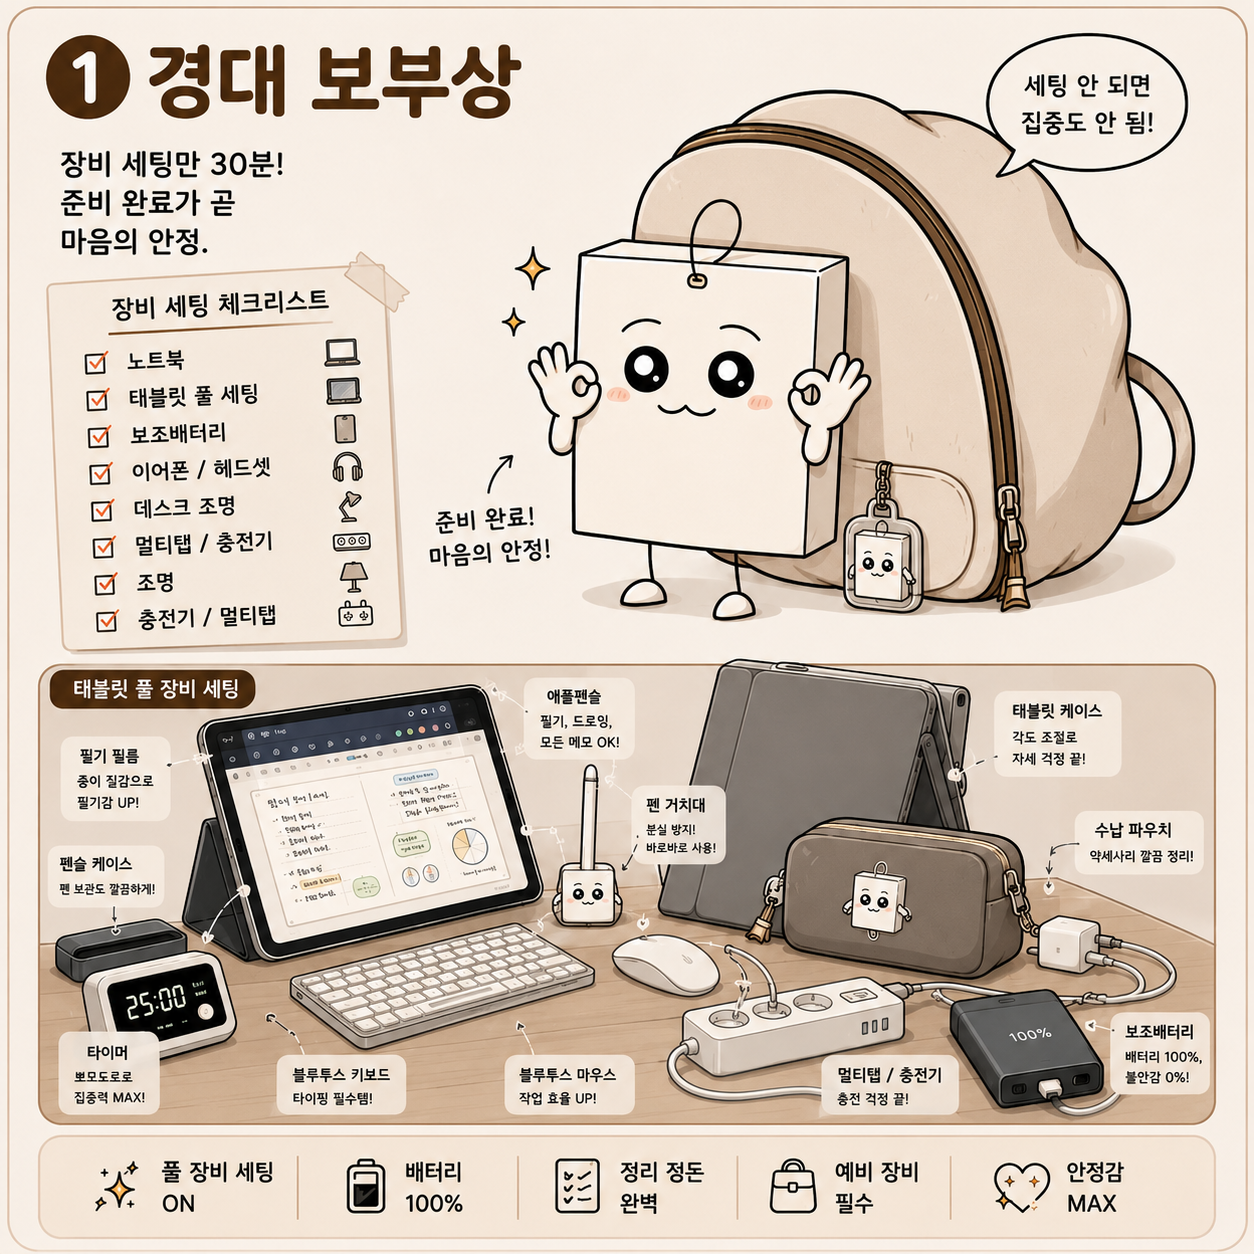
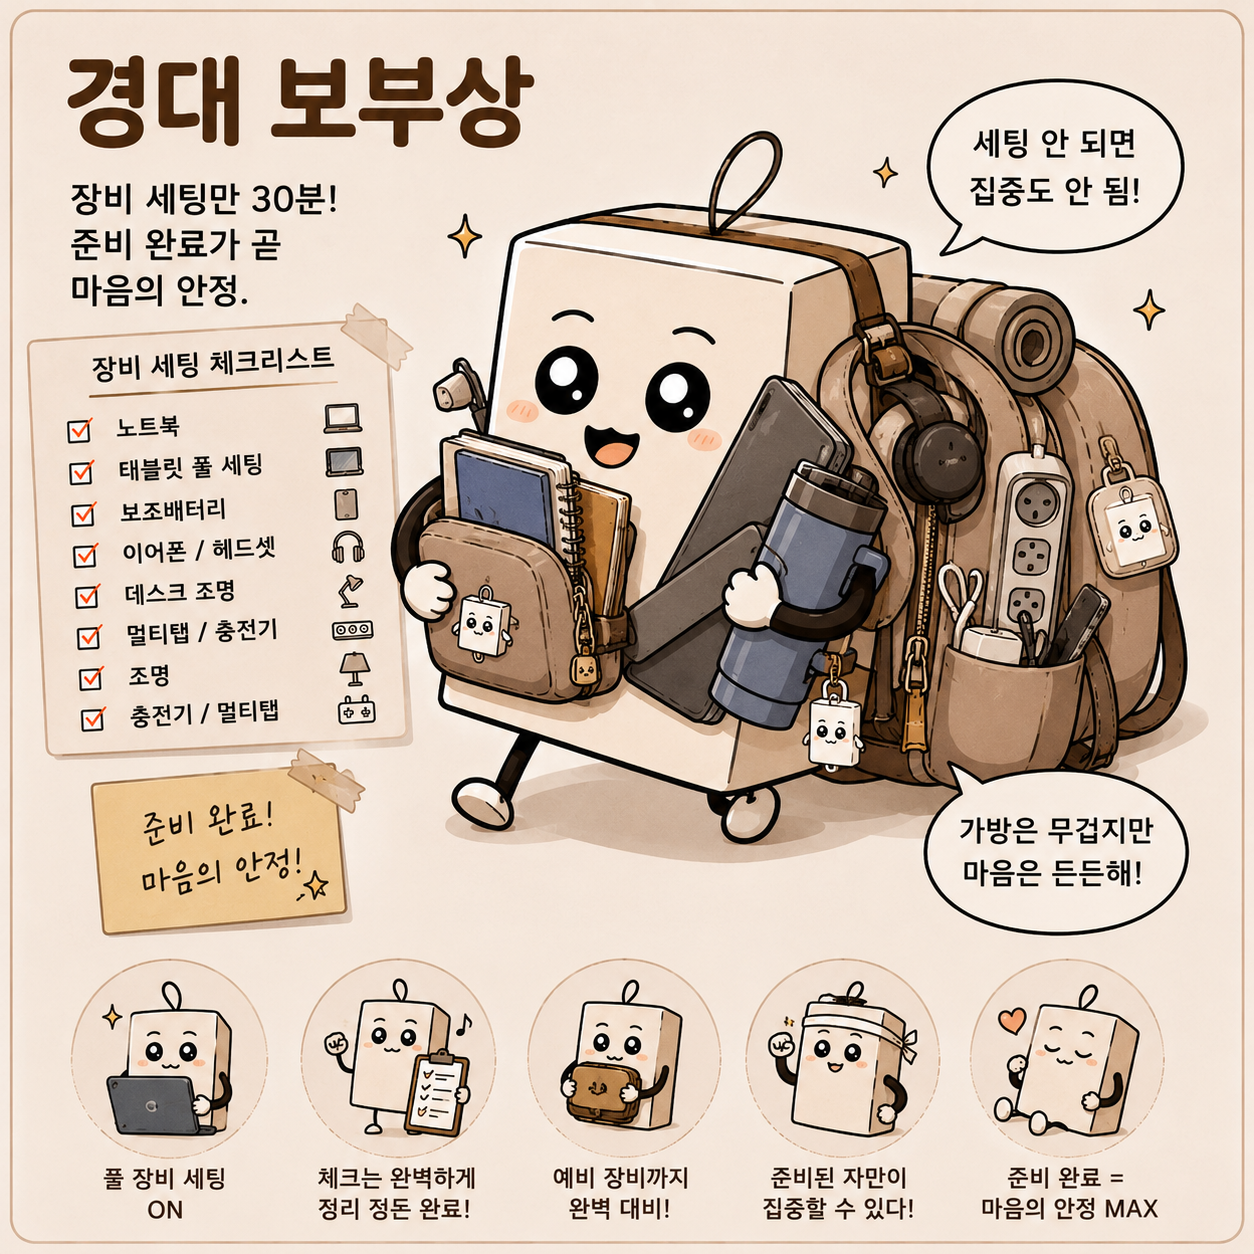
Update files

diff --git a/src/data.js b/src/data.js
@@ -1,7 +1,9 @@
 export const RESULTS = {
   FOCUS: { 
     name: "딥포커스 크부기", 
-    desc: "도서관에 앉는 순간 주변의 시공간이 멈추는 분이시군요!\n한 번 자리를 잡으면 엉덩이를 떼지 않는 무서운 집중력의 소유자입니다. 숨소리조차 조심스러운 정적 속에서 최고의 효율을 발휘하며, 계획한 분량을 끝내기 전까지는 절대 일어나지 않는 도서관의 터줏대감입니다.", 
+    desc: `도서관에 앉는 순간 주변의 시공간이 멈추는 분이시군요!
+    한 번 자리를 잡으면 엉덩이를 떼지 않는 무서운 집중력의 소유자입니다.
+    계획한 분량을 끝내기 전까지는 절대 일어나지 않는 도서관의 터줏대감입니다.`, 
     emoji: "🗿",
     img: "/images/kbg_focus.png",
     place: "중앙도서관 신관 3층 제 3열람실",
@@ -10,25 +12,20 @@ export const RESULTS = {
   },
   CAFE: { 
     name: "카공 ON 크부기", 
-    desc: "너무 적막한 곳보다는 적당한 백색소음이 있어야 뇌가 깨어나는 타입입니다!\n남들이 공부하는 모습이 시야에 들어와야 적당한 긴장감을 유지하며 집중력이 상승합니다. 노트북 타이핑 소리와 책장 넘기는 소리가 어우러진 오픈 테이블이 당신의 주 무대입니다.",
+    desc: `너무 적막한 곳보다는 적당한 백색소음이 있어야 뇌가 깨어나는 타입입니다!
+    남들이 공부하는 모습이 시야에 들어와야 적당한 긴장감을 유지하며 집중력이 상승합니다. 
+    노트북 타이핑 소리와 책장 넘기는 소리가 어우러진 오픈 테이블이 당신의 주 무대입니다.`,
     emoji: "🎧",
     img: "/images/kbg_cafe.png",
     place: "중앙도서관 신관 1층 카페",    
-    best: "ZIMCARRY",
+    best: "WITH",
     worst: "FOCUS"
   },
-  ZIMCARRY: { 
-    name: "경대 보부상", 
-    desc: "공부는 장비빨! 노트북, 태블릿, 독서대까지... 가방 무게가 곧 당신의 열정입니다.\n자리에 앉자마자 콘센트 위치부터 확인하고 완벽하게 세팅을 마쳐야 비로소 공부를 시작할 마음이 생깁니다. 모든 기기의 배터리가 100%일 때 가장 마음이 편안해집니다.",     
-    emoji: "🍎",
-    img: "/images/kbg_zimcarry.png",
-    place: "중앙도서관 신관 2층 제 2열람실",    
-    best: "CAFE",
-    worst: "TOURIST"
-  },
   WITH: { 
-    name: "함께 성장하는 협업러", // 🤝 누락되었던 이름을 논리적으로 채워 넣었습니다.
-    desc: "혼자 하는 공부보다 '함께'의 힘을 믿는 분이시군요!\n친구와 모르는 것을 서로 설명해 주거나, 스터디원들과 나란히 앉아 있을 때 시너지가 폭발합니다. 말을 하면서 지식을 정리하는 것을 선호하며, 서로를 자극하는 건강한 경쟁을 즐기는 타입입니다.",
+    name: "스터디 with 크부기", // 🤝 누락되었던 이름을 논리적으로 채워 넣었습니다.
+    desc: `혼자 하는 공부보다 '함께'의 힘을 믿는 분이시군요!
+    친구와 모르는 것을 서로 설명해 주거나, 스터디원들과 나란히 앉아 있을 때 시너지가 폭발합니다. 
+    말을 하면서 지식을 정리하는 것을 선호하며, 서로를 자극하는 건강한 경쟁을 즐기는 타입입니다.`,
     emoji: "🖍",
     img: "/images/kbg_studywithkbg.png",
     place: "중앙도서관 신관 1층 스터디룸",
@@ -37,12 +34,14 @@ export const RESULTS = {
   },
   OWL: { 
     name: "호반우 옆 올빼미", 
-    desc: "모두가 떠난 뒤에도 도서관의 불을 밝히는 진정한 생존형 공부러입니다!\n평소엔 여유롭다가도 시험 기간만 되면 초인적인 힘을 발휘해 지식을 뇌에 연성해 넣습니다. 카페인과 에너지 드링크로 생명력을 치환하며, 마감 직전의 스릴을 즐기는 벼락치기의 달인입니다.",
+    desc: `모두가 떠난 뒤에도 도서관의 불을 밝히는 진정한 생존형 공부러입니다!
+    평소엔 여유롭다가도 시험 기간만 되면 초인적인 힘을 발휘해 지식을 뇌에 연성해 넣습니다. 
+    카페인과 에너지 드링크로 생명력을 치환하며, 마감 직전의 스릴을 즐기는 벼락치기의 달인입니다.`,
     emoji: "🦉",
     img: "/images/kbg_owl.png",
     place: "중앙도서관 신관 지하 1층 제 1열람실",
     best: "FOCUS",
-    worst: "ZIMCARRY"
+    worst: "TOURIST"
   },
   TOURIST: { 
     name: "도서관 명예 관광객", 
@@ -51,7 +50,7 @@ export const RESULTS = {
     img: "/images/kbg_tourist.png",
     place: "중앙도서관 구관 1층 라운지 소파존",
     best: "WITH",
-    worst: "ZIMCARRY"
+    worst: "OWL"
   }
 };
 
@@ -59,7 +58,7 @@ export const QUESTIONS = [
   { 
     text: "도서관에 도착하자마자\n당신이 가장 먼저 찾는 것은?", 
     options: [
-      { text: "내 모든 장비를 연결할 '콘센트' 자리", weights: { ZIMCARRY: 2, CAFE: 1 } },
+      { text: "노트북과 전자기기를 연결할 '콘센트' 자리", weights: { CAFE: 3, WITH: 1 } },
       { text: "최대한 구석진 곳의 '독립된' 자리", weights: { FOCUS: 2, TOURIST: 1 } }
     ] 
   },
@@ -67,62 +66,55 @@ export const QUESTIONS = [
     text: "공강 시간, 당신이\n도서관으로 향하는 진짜 이유는?", 
     options: [
       { text: "에어컨/히터 쐬면서 편하게 한숨 자려고", weights: { TOURIST: 2, CAFE: 1 } },
-      { text: "다음 수업 과제나 퀴즈를 미리 끝내려고", weights: { FOCUS: 2, OWL: 1 } }
+      { text: "다음 수업 과제나 퀴즈를 미리 끝내려고", weights: { FOCUS: 2 } }
     ] 
   },
   { 
     text: "당신이 선호하는\n학습 공간의 분위기는?", 
     options: [
       { text: "사방이 막힌 폐쇄석", weights: { FOCUS: 2, OWL: 1 } },
-      { text: "탁 트인 개방석", weights: { CAFE: 2, WITH: 1 } }
+      { text: "탁 트인 개방석", weights: { WITH: 3, CAFE: 1 } }
+    ] 
+  },
+  {
+    text: "나의 이상적인 공부 루틴은?",
+    options: [
+      { text: "남들보다 일찍 시작해서 오전 시간을 활용한다.", weights: { CAFE: 3, TOURIST: 1 } },
+      { text: "하루 일과를 끝낸 후 밤에 집중해서 마무리한다.", weights: { OWL: 2, WITH: 1 } }
+    ]
+  },
+  { 
+    text: "공부를 시작하려는데 주변에서 작은 대화 소리가 들린다.", 
+    options: [
+      { text: "집중이 흐트러져 이어폰을 끼거나 자리를 옮기고 싶다.", weights: { FOCUS: 2 } },
+      { text: "금방 익숙해져 크게 신경 쓰지 않는다", weights: { WITH: 2, CAFE: 1 } }
     ] 
   },
   { 
-    text: "공부하다가 아는 사람을\n마주쳤을 때 당신은?", 
+    text: "공부 효율이 가장\n잘 올라가는 환경은?", 
     options: [
-      { text: "눈인사만 하고 재빨리 공부 모드 복귀", weights: { FOCUS: 2, OWL: 1 } },
-      { text: "잠깐이라도 의자 빼고 앉아서 근황 토크", weights: { WITH: 2, TOURIST: 1 } }
-    ] 
-  },
-  { 
-    text: "자리에 앉아 가방을 열었을 때\n당신의 소지품 상태는?", 
-    options: [
-      { text: "노트북, 패드, 보조배터리 등 기기가 가득", weights: { ZIMCARRY: 2, CAFE: 1 } },
-      { text: "책 한 권, 필통 하나로 끝내는 단촐함", weights: { FOCUS: 2, OWL: 1 } }
-    ] 
-  },
-  { 
-    text: "옆자리 사람이 주기적으로\n'바스락' 소리를 낸다면?", 
-    options: [
-      { text: "신경 쓰여서 속으로 화를 참거나 자리를 옮긴다", weights: { FOCUS: 2 } },
-      { text: "백색소음이라 생각하며 내 할 일에 집중한다", weights: { CAFE: 2, TOURIST: 1 } }
-    ] 
-  },
-  { 
-    text: "공부 효율이 가장\n잘 나오는 환경은?", 
-    options: [
-      { text: "아무도 나를 방해하지 않는 1인 모드", weights: { FOCUS: 2, OWL: 1 } },
-      { text: "서로 감시(?)하며 자극받는 스터디 모드", weights: { WITH: 2, CAFE: 1 } }
+      { text: "아무에게도 방해받지 않고 혼자 집중하는 1인 집중 모드", weights: { FOCUS: 2, OWL: 1 } },
+      { text: "모르는 부분을 서로 질문하고 설명하며 함께 공부하는 스터디 모드", weights: { WITH: 3 } }
     ] 
   },
   { 
     text: "도서관에서 가장 행복한 순간은?", 
     options: [
       { text: "계획했던 공부 분량을 '완독'했을 때", weights: { OWL: 2, FOCUS: 1 } },
-      { text: "잠깐 나가서 친구랑 커피 마시는 시간", weights: { TOURIST: 2, WITH: 1 } }
+      { text: "잠깐 나가서 친구랑 커피 마시는 시간", weights: { TOURIST: 2, WITH: 2 } }
     ] 
   },
   { 
     text: "공부하다 배가 고파지면 당신은?", 
     options: [
-      { text: "빨리 먹고 복귀해서 흐름을 이어간다", weights: { OWL: 2, FOCUS: 1 } },
-      { text: "맛집을 찾아 학교 밖으로 나가는 게 진정한 휴식", weights: { TOURIST: 2, WITH: 1 } }
+      { text: "흐름이 끊기기 전에 빨리 먹고 복귀한다", weights: { OWL: 2 } },
+      { text: "맛집을 찾아 학교 밖으로 나가는 게 진정한 휴식", weights: { TOURIST: 2, CAFE: 1 } }
     ] 
   },
   { 
     text: "시험 3일 전, 당신의 상태는?", 
     options: [
-      { text: "평소와 다름없는 루틴을 유지한다", weights: { FOCUS: 2, ZIMCARRY: 1 } },
+      { text: "평소와 다름없는 루틴을 유지한다", weights: { CAFE: 2, WITH: 1 } }, 
       { text: "도서관이 집이고 집이 도서관이 된다", weights: { OWL: 3 } }
     ] 
   },
@@ -136,8 +128,8 @@ export const QUESTIONS = [
   { 
     text: "오늘 공부가 유독 안 된다면?", 
     options: [
-      { text: "카페인을 때려 붓고 어떻게든 앉아 있는다", weights: { OWL: 2, FOCUS: 1 } },
-      { text: "이미 뇌가 굳었다. 쾌적함을 즐기다 조기 퇴근", weights: { TOURIST: 2 } }
+      { text: "카페인을 때려 붓고 어떻게든 앉아 있는다", weights: { OWL: 2 } },
+      { text: "이미 뇌가 굳었다. 쾌적함을 즐기다 조기 퇴근", weights: { TOURIST: 3 } }
     ] 
   }
 ];

diff --git a/src/App.jsx b/src/App.jsx
@@ -20,7 +20,6 @@ function App() {
   const [scores, setScores] = useState({ 
     FOCUS: 0, 
     CAFE: 0, 
-    ZIMCARRY: 0, 
     WITH: 0, 
     OWL: 0, 
     TOURIST: 0 
@@ -64,7 +63,8 @@ function App() {
         try {
           const maxScore = Math.max(...Object.values(scores));
           const candidates = Object.keys(scores).filter(key => scores[key] === maxScore);
-          const priority = ["TOURIST", "ZIMCARRY", "WITH", "OWL", "CAFE", "FOCUS"];          let picked = candidates.sort((a, b) => priority.indexOf(a) - priority.indexOf(b))[0];
+          const priority = ["FOCUS", "CAFE", "WITH", "OWL", "TOURIST"];          
+          let picked = candidates.sort((a, b) => priority.indexOf(a) - priority.indexOf(b))[0];
           
           if (!picked || !RESULTS[picked]) {
             picked = "TOURIST";
@@ -134,8 +134,8 @@ function App() {
                 alt="메인 크부기"
                 className="w-full h-full object-contain relative z-10 drop-shadow-xl"
                 onError={(e) => {
-                  e.target.style.display = 'none';
-                  e.target.parentNode.innerHTML = '<span class="text-6xl block">🐢</span>';
+                  e.target.onerror = null; // 무한 루프 방지
+                  e.target.src = "https://via.placeholder.com/400?text=Kbeugi"; 
                 }}
               />
             </div>
@@ -148,7 +148,7 @@ function App() {
               테스트 시작하기
             </button>
             <footer className="mt-16">
-              <p className="text-sm font-bold text-slate-400 tracking-widest">제38기 도서관학생위원회</p>
+              <p className="text-sm font-bold text-slate-400 tracking-widest">제39기 도서관학생위원회</p>
             </footer>
           </motion.div>
         )}
@@ -235,22 +235,32 @@ function App() {
                 }}
               />
             </div>
-            
+            {/* 📍 추천 공부 장소 영역 */}
             <div className="bg-[#fff9f9] border border-[#ff6b6b]/10 p-4 rounded-xl mb-4 text-left">
-              <p className="text-[#ff6b6b] text-xs font-black mb-1">📍 추천 공부 장소</p>
-              <p className="text-slate-700 font-bold text-base">{safeResult?.place || "도서관 라운지"}</p>
+              {/* text-xs -> text-sm으로 크기 증가 */}
+              <p className="text-[#ff6b6b] text-sm font-black mb-1">📍 추천 공부 장소</p>
+              {/* text-base -> text-lg로 크기 증가 */}
+              <p className="text-slate-700 font-bold text-lg">{safeResult?.place || "도서관 라운지"}</p>
             </div>
 
+            {/* 🤝 BEST / WORST 궁합 영역 */}
             <div className="grid grid-cols-2 gap-2.5 mb-5">
-              <div className="bg-blue-50/50 p-2.5 rounded-xl border border-blue-100/50 flex flex-col justify-center items-center min-h-[4.5rem]">
-                <p className="text-blue-500 text-[10px] font-black mb-1 uppercase tracking-wider">Best Match</p>
-                <p className="text-slate-700 text-xs font-bold break-keep whitespace-normal leading-tight text-center px-1">
+              {/* 패딩(p-3) 및 최소 높이(min-h-[5rem]) 증가 */}
+              <div className="bg-blue-50/50 p-3 rounded-xl border border-blue-100/50 flex flex-col justify-center items-center min-h-[5rem]">
+                {/* text-[10px] -> text-xs로 크기 증가 */}
+                <p className="text-blue-500 text-xs font-black mb-1.5 uppercase tracking-wider">Best Match</p>
+                {/* text-xs -> text-sm으로 크기 증가 */}
+                <p className="text-slate-700 text-sm font-bold break-keep whitespace-normal leading-tight text-center px-1">
                   {bestMatch ? `${bestMatch.emoji} ${bestMatch.name}` : "⏳ 정산 중"}
                 </p>
               </div>
-              <div className="bg-red-50/50 p-2.5 rounded-xl border border-red-100/50 flex flex-col justify-center items-center min-h-[4.5rem]">
-                <p className="text-red-500 text-[10px] font-black mb-1 uppercase tracking-wider">Worst Match</p>
-                <p className="text-slate-700 text-xs font-bold break-keep whitespace-normal leading-tight text-center px-1">
+              
+              {/* 패딩(p-3) 및 최소 높이(min-h-[5rem]) 증가 */}
+              <div className="bg-red-50/50 p-3 rounded-xl border border-red-100/50 flex flex-col justify-center items-center min-h-[5rem]">
+                {/* text-[10px] -> text-xs로 크기 증가 */}
+                <p className="text-red-500 text-xs font-black mb-1.5 uppercase tracking-wider">Worst Match</p>
+                {/* text-xs -> text-sm으로 크기 증가 */}
+                <p className="text-slate-700 text-sm font-bold break-keep whitespace-normal leading-tight text-center px-1">
                   {worstMatch ? `${worstMatch.emoji} ${worstMatch.name}` : "⏳ 정산 중"}
                 </p>
               </div>
@@ -267,7 +277,7 @@ function App() {
                 setStage('landing');
                 setCurrentIdx(0);
                 setFinalResult(null);
-                setScores({ SILENT: 0, AMBIENT: 0, APPLE: 0, MARKER: 0, ALCHEMIST: 0, TOURIST: 0 });
+                setScores({ FOCUS: 0, CAFE: 0, WITH: 0, OWL: 0, TOURIST: 0 });
               }} className="w-full py-3 bg-slate-100 text-slate-500 rounded-xl font-bold hover:bg-slate-200 active:scale-95 transition-all text-sm">
                 테스트 다시 하기
               </button>
